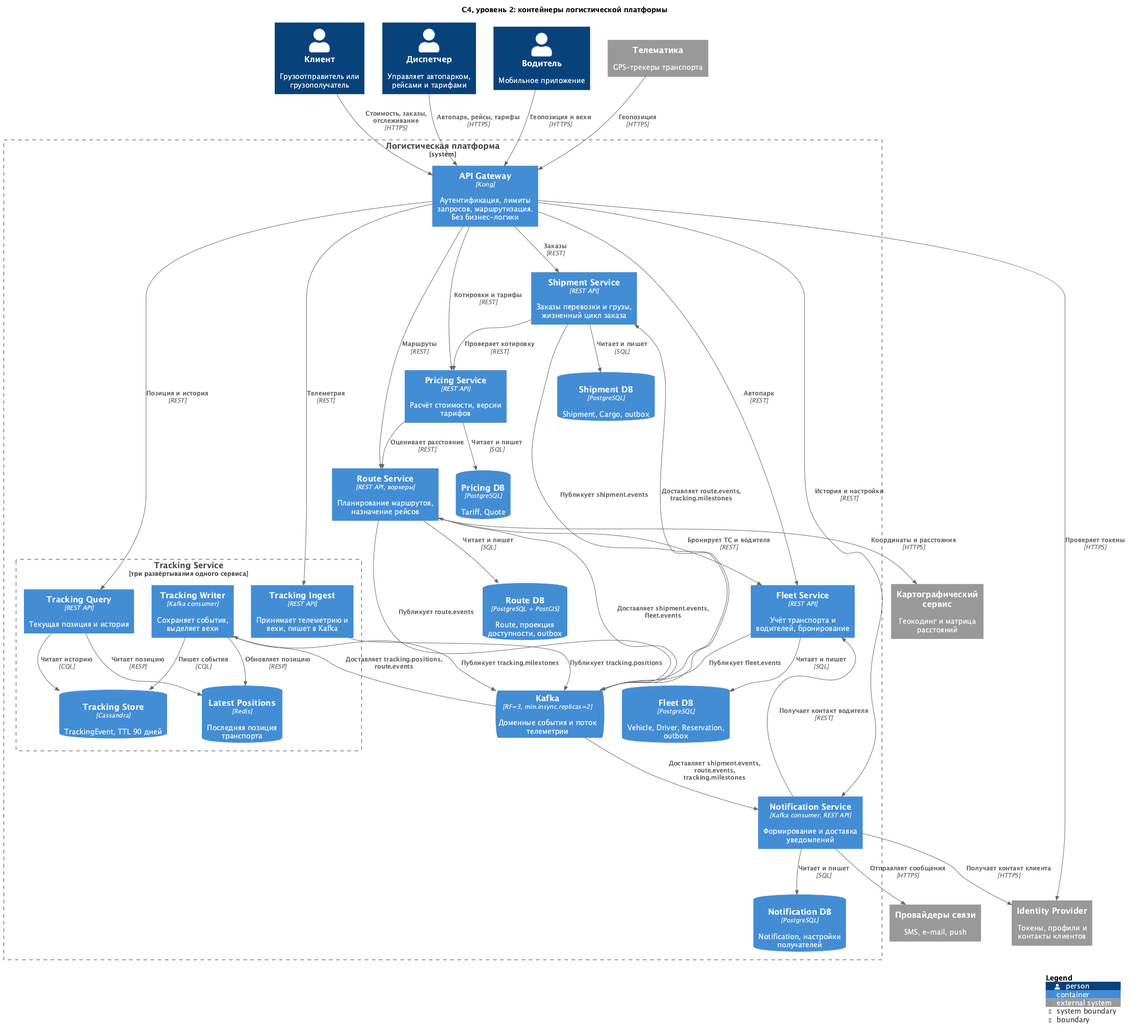
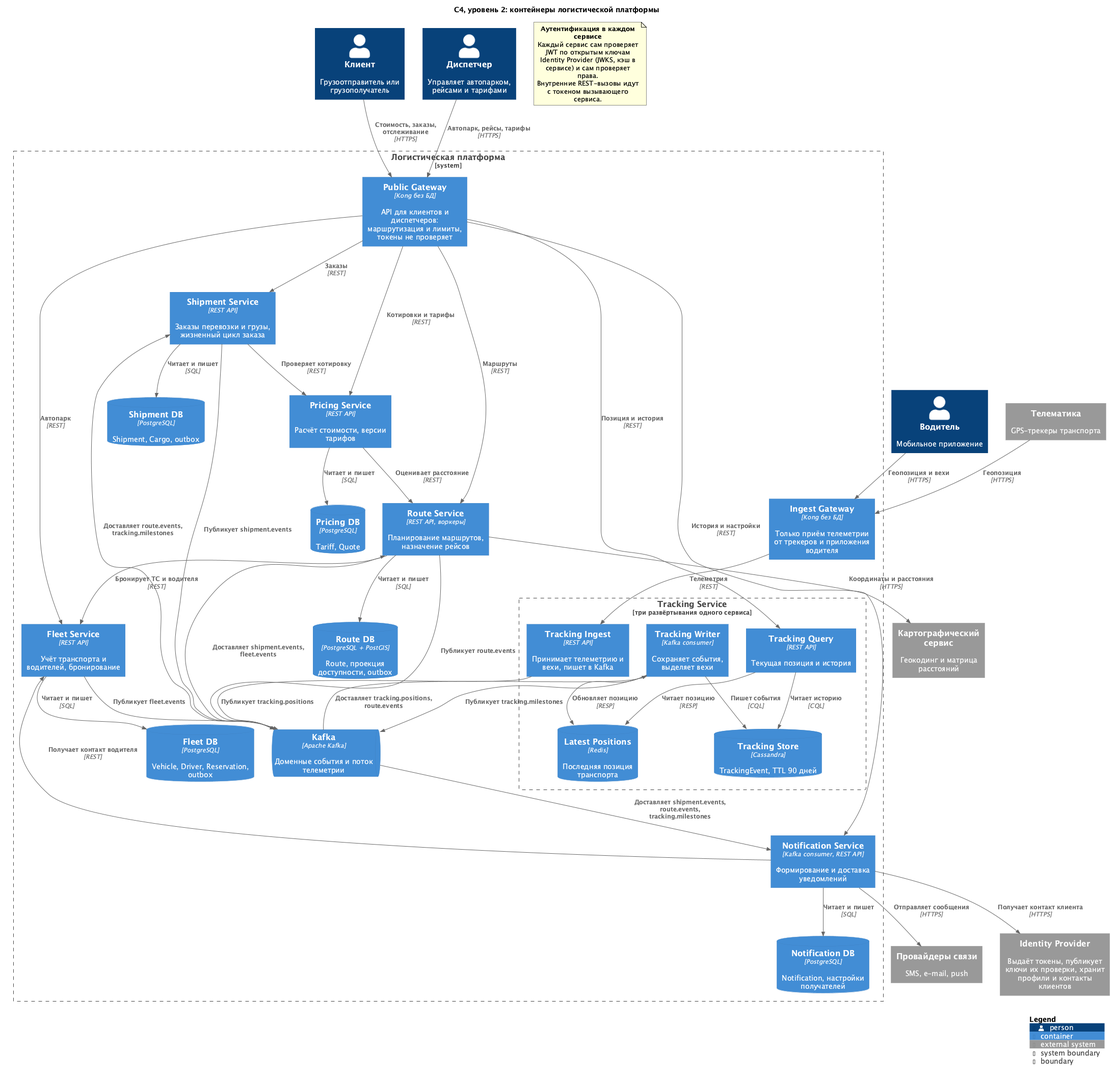
docs: доработка лабы №1 по замечаниям ревью
- Надёжность: три независимых ЦОДа, PostgreSQL на Patroni с синхронной
  репликой, Cassandra и Kafka с RF=3, Redis Sentinel, бэкапы в другом
  регионе (раздел 9, новая схема c4-deployment)
- Точки входа: отдельные Ingest и Public Gateway без состояния,
  Ingest Gateway вынесен из границы Tracking
- Аутентификация: каждый сервис сам проверяет JWT и права,
  шлюзы токены не проверяют
- Балансировка и автомасштабирование: Kong Ingress Controller,
  HPA по метрикам каждого сервиса (раздел 10)
- Мониторинг: Prometheus, Alertmanager и Grafana в каждом ЦОДе (раздел 11)
- C4 container: убраны детали репликации, они перенесены на уровень развёртывания

diff --git a/1_lab/README.md b/1_lab/README.md
@@ -9,7 +9,7 @@
 | Context Map | [diagrams/context-map.puml](diagrams/context-map.puml) |
 | Каталог микросервисов | [services.md](services.md) |
 | ADR-001 | [ADR-001-decomposition.md](ADR-001-decomposition.md) |
-| Схема C4 | [diagrams/c4-context.puml](diagrams/c4-context.puml), [diagrams/c4-container.puml](diagrams/c4-container.puml) |
+| Схема C4 | [diagrams/c4-context.puml](diagrams/c4-context.puml), [diagrams/c4-container.puml](diagrams/c4-container.puml), [diagrams/c4-deployment.puml](diagrams/c4-deployment.puml) |
 
 Сборка картинок: `plantuml -charset UTF-8 -tpng diagrams/*.puml`
 
@@ -93,7 +93,25 @@
 
 Правило владения: данные меняет только сервис-владелец, общих БД и чтения чужих таблиц нет. Копии чужих данных (проекция доступности в Route, привязка «заказ — транспорт» в Tracking) строятся из событий и не считаются источником истины.
 
-Шесть сервисов распределены на пять команд. Pricing и Notification ведёт одна команда, потому что это самые простые сервисы и они не связаны между собой напрямую. API Gateway и Kafka обслуживает команда Tracking как основной потребитель Kafka: отдельной платформенной команды в варианте нет.
+Шесть сервисов распределены на пять команд. Pricing и Notification ведёт одна команда, потому что это самые простые сервисы и они не связаны между собой напрямую. Шлюзы и Kafka обслуживает команда Tracking как основной потребитель Kafka: отдельной платформенной команды в варианте нет.
+
+**Точки входа.** Внешний трафик разделён по профилю нагрузки на два шлюза, у каждого свой адрес и свои экземпляры. Оба шлюза работают на Kong Ingress Controller без БД: маршруты описаны ресурсами Kubernetes, которые хранятся в git. Поэтому экземпляры не хранят состояния, и HPA добавляет их без какой-либо синхронизации (раздел 10).
+
+| Шлюз | Клиенты | Маршруты | Пик | Масштабирование |
+|---|---|---|---:|---|
+| Ingest Gateway | GPS-трекеры, приложение водителя | только `POST /tracking/events` в Tracking Ingest | 2 000 RPS | по RPS телеметрии |
+| Public Gateway | клиенты, диспетчеры | остальной API шести сервисов | 3 000 RPS | по RPS и CPU |
+
+Так всплеск телеметрии не отнимает ресурсы у приёма заказов, а сбой или неудачное обновление одного шлюза не затрагивает другой. Лимиты запросов каждый экземпляр считает локально, без общего хранилища счётчиков. При изменении числа экземпляров лимит соблюдается приблизительно, но для защиты от перегрузки этого достаточно.
+
+**Аутентификация.** Каждый сервис проверяет токен сам, шлюзы только маршрутизируют запросы и ограничивают их частоту.
+
+- Identity Provider выдаёт JWT: клиентам и диспетчерам при входе, водителям в приложении, а трекерам, телематике и самим сервисам — по OAuth 2.0 client credentials.
+- Сервис проверяет подпись токена по открытым ключам IdP (JWKS), которые кэширует у себя. К IdP на каждый запрос он не обращается, поэтому кратковременный сбой IdP не останавливает работу.
+- Права тоже проверяет сам сервис: клиент видит только свои заказы, тарифы меняет только диспетчер, отправлять телеметрию может только трекер или водитель.
+- Внутренние REST-вызовы (Shipment → Pricing, Route → Fleet и другие) идут с токеном вызывающего сервиса. Запрос не считается доверенным только потому, что пришёл из внутренней сети.
+
+Так ошибка в конфигурации шлюза или запрос в обход шлюза не открывают доступ к данным, а правила доступа к данным задаёт команда-владелец этих данных.
 
 ## 5. Основные взаимодействия
 
@@ -105,7 +123,7 @@
 2. Клиент создаёт заказ: `POST /shipments` с `quoteId`. Shipment проверяет котировку в Pricing, копирует цену в заказ и публикует `ShipmentConfirmed`. Статус заказа: `CONFIRMED`.
 3. Route получает событие и строит маршрут. Кандидатов он выбирает по своей проекции доступности, а затем бронирует пару в Fleet (`POST /reservations`). При ответе 409 берётся следующий кандидат.
 4. Route публикует `RouteAssigned`. Shipment переводит заказ в `ASSIGNED`, Tracking запоминает привязку транспорта к заказу, Notification сообщает водителю и клиенту. Если подобрать ресурс не удалось, публикуется `RouteAssignmentFailed` и заказ переходит в `ASSIGNMENT_FAILED`.
-5. Телематика и приложение водителя отправляют события в `POST /tracking/events`. Ingest пишет их в Kafka, Writer сохраняет в Cassandra и Redis, а вехи (груз забран, груз доставлен) публикует в `tracking.milestones`.
+5. Телематика и приложение водителя отправляют события через Ingest Gateway в `POST /tracking/events`. Ingest пишет их в Kafka, Writer сохраняет в Cassandra и Redis, а вехи (груз забран, груз доставлен) публикует в `tracking.milestones`.
 6. Shipment получает вехи и переводит заказ в `IN_TRANSIT`, затем в `DELIVERED`. По событию `ShipmentStatusChanged` со статусом `DELIVERED` Route завершает рейс и освобождает бронь в Fleet.
 
 **Отмена:** `POST /shipments/{id}/cancel` публикует `ShipmentCancelled`, после чего Route отменяет рейс и снимает бронь (компенсация).
@@ -129,7 +147,11 @@
 | Fleet | приём заказов, отслеживание | назначение откладывается, Route повторяет попытку |
 | Tracking | приём заказов и назначение рейсов | позиции устаревают; при отказе Ingest клиенты повторяют отправку из своего буфера |
 | Notification | всё остальное | уведомления приходят с задержкой, но не теряются |
-| Shipment | отслеживание, учёт автопарка | новые заказы не принимаются, поэтому минимум 3 экземпляра в разных зонах доступности |
+| Shipment | отслеживание, учёт автопарка | новые заказы не принимаются, поэтому экземпляры работают во всех трёх ЦОДах |
+| Ingest Gateway | весь API для клиентов и диспетчеров | позиции устаревают, трекеры копят отметки в своём буфере и отправляют повторно |
+| Public Gateway | приём телеметрии | клиенты и диспетчеры не могут работать с API, поэтому экземпляры работают во всех трёх ЦОДах |
+| Лидер PostgreSQL одного сервиса | все остальные сервисы | Patroni переключается на синхронную реплику, запись в этот сервис недоступна до 1 мин, данные не теряются |
+| Целый ЦОД | вся система, трафик принимают два оставшихся ЦОДа | запись в БД, чей лидер был в этом ЦОДе, недоступна до 1 мин, данные не теряются |
 | Kafka | чтение, приём заказов (события копятся в outbox) | назначение и уведомления останавливаются, Ingest отвечает 503 и клиенты повторяют отправку |
 
 ## 6. Обоснование декомпозиции
@@ -149,9 +171,9 @@
 
 | Ограничение | Как выполнено |
 |---|---|
-| Независимое масштабирование | у каждого сервиса своя метрика, а Ingest, Writer и Query в Tracking масштабируются отдельно |
-| Высокая доступность | приём заказа и телеметрии не зависит синхронно от Route, Fleet и Notification; см. таблицу отказов |
-| Владение данными | своя БД и одна команда-владелец у каждого сервиса |
+| Независимое масштабирование | у каждого развёртывания свой HPA и своя метрика, Ingest, Writer и Query в Tracking масштабируются отдельно, балансировщик сам находит новые поды, внешний трафик разделён на два шлюза без состояния (разделы 4 и 10) |
+| Высокая доступность | три независимых ЦОДа, у каждого хранилища копия в каждом из них (раздел 9); приём заказа и телеметрии не зависит синхронно от Route, Fleet и Notification; см. таблицу отказов; сбои видны в Grafana и приходят алертами (раздел 11) |
+| Владение данными | своя БД, одна команда-владелец и своя проверка прав доступа у каждого сервиса |
 | Выделение нового сервиса | см. раздел 8 |
 | 5 команд | один сервис на команду, одна команда ведёт два простых сервиса |
 | 5 000 RPS | чтение позиции идёт из Redis, запись буферизуется Kafka, история хранится в Cassandra с TTL |
@@ -165,7 +187,7 @@
 
 ## 8. Выделение нового сервиса
 
-Возможность выделения обеспечивают три решения: каждое изменение состояния публикуется событием, API Gateway маршрутизирует по пути, а модули внутри сервиса не используют чужие схемы БД.
+Возможность выделения обеспечивают три решения: каждое изменение состояния публикуется событием, Public Gateway маршрутизирует по пути, а модули внутри сервиса не используют чужие схемы БД.
 
 **Новая возможность: Billing.** Сервис подписывается на `shipment.events`, а цена уже есть в `ShipmentConfirmed`. Существующие сервисы менять не нужно.
 
@@ -173,12 +195,71 @@
 
 1. Поднять новый сервис и перенести в его БД схему `driver`, которая уже изолирована.
 2. Перенести публикацию `DriverStatusChanged`, формат события оставить прежним.
-3. Переключить `/drivers` в API Gateway на новый сервис.
+3. Переключить `/drivers` в Public Gateway на новый сервис.
 4. Заменить общую бронь на сагу: бронь транспорта и бронь водителя становятся двумя шагами с компенсацией.
 
 Шаг 4 и есть цена выделения, поэтому сейчас Vehicle и Driver находятся в одном сервисе.
 
-## 9. Потенциальные проблемы
+## 9. Размещение и репликация
+
+Чтобы критичные операции работали 24/7, система должна пережить отказ узла, стойки и целого ЦОДа. Поэтому она развёрнута в трёх независимых ЦОДах, и у каждого хранилища есть копия в каждом из них.
+
+- **Площадки.** Три ЦОДа в одном регионе, разнесённые на десятки километров, с независимым питанием и каналами связи. Задержка между ними 1–3 мс (допущение), этого достаточно для синхронной репликации.
+- **Почему три, а не два.** Автоматическое переключение требует кворума. Если две площадки теряют связь друг с другом, ни одна не может решить, что главная именно она, и возникает риск split-brain. Третий ЦОД даёт большинство 2 из 3.
+- **Независимые контуры.** В каждом ЦОДе свой кластер Kubernetes, поэтому авария или неудачное обновление одного кластера не затрагивает остальные. GSLB направляет трафик только в ЦОДы, которые проходят проверку доступности.
+- **Запас мощности.** Каждый ЦОД рассчитан на 50 % пиковой нагрузки, чтобы после отказа одного из них два оставшихся выдержали 5 000 RPS.
+
+![C4, развёртывание](diagrams/c4-deployment.png)
+
+Исходник: [diagrams/c4-deployment.puml](diagrams/c4-deployment.puml).
+
+| Компонент | Копии | Репликация | Отказ одного ЦОДа | RPO | RTO |
+|---|---|---|---|---|---|
+| PostgreSQL, 5 кластеров (по одному на сервис) | лидер и 2 реплики, по одной в каждом ЦОДе | синхронная: коммит подтверждается после записи хотя бы в одну реплику в другом ЦОДе (`ANY 1`) | Patroni по кворуму etcd повышает синхронную реплику | 0 | до 1 мин |
+| Cassandra (Tracking) | RF=3, по реплике в каждом ЦОДе (ЦОД = rack) | без лидера, запись и чтение с `QUORUM` | хватает 2 реплик из 3, переключение не нужно | 0 | 0 |
+| Kafka | RF=3, `broker.rack` = ЦОД, контроллеры KRaft в трёх ЦОДах | `acks=all`, `min.insync.replicas=2` | лидеры партиций переизбираются автоматически | 0 | секунды |
+| Redis (последние позиции) | master и 2 реплики, Sentinel в трёх ЦОДах | асинхронная | Sentinel повышает реплику | несколько секунд, позиции восстанавливаются следующими отметками за 10 с | до 30 с |
+| etcd (кворум для Patroni) | 3 узла, по одному в каждом ЦОДе | Raft | кворум 2 из 3 сохраняется | — | — |
+| Шлюзы и сервисы | экземпляры в каждом ЦОДе | состояния нет | GSLB исключает ЦОД из ответов DNS | — | до 1 мин (TTL DNS) |
+
+Запись из ЦОДов B и C идёт в лидер PostgreSQL и занимает на 1–3 мс больше, чтение идёт из локальной реплики. Лидеры пяти кластеров можно разнести по разным ЦОДам, чтобы распределить нагрузку на запись. Если откажут сразу два ЦОДа, запись в PostgreSQL остановится: подтвердить коммит будет некому. Это сделано намеренно, чтобы не терять данные, а переключение в таком случае выполняется вручную.
+
+**Резервные копии.** Репликация не защищает от логических ошибок: ошибочный `DELETE` сразу попадает во все копии. Поэтому PostgreSQL непрерывно архивирует WAL, а Cassandra ежедневно делает снапшоты в объектное хранилище в другом регионе. Это позволяет восстановить данные на любой момент времени и пережить потерю всего региона. В таком случае данные PostgreSQL теряются не больше чем за минуту, история телеметрии — не больше чем за сутки, а восстановление занимает часы. Если этого мало, следующий шаг — асинхронная реплика в другом регионе.
+
+## 10. Балансировка и автомасштабирование
+
+Каждый ЦОД обслуживает свою долю трафика самостоятельно: свой кластер Kubernetes масштабирует поды и распределяет между ними запросы. Балансировка динамическая на всех уровнях: новые поды начинают получать запросы, а удалённые и неисправные перестают, без ручной настройки.
+
+| Уровень | Чем балансируется | Как узнаёт о подах |
+|---|---|---|
+| Между ЦОДами | GSLB (DNS) | проверяет доступность каждого ЦОДа и исключает недоступный |
+| Вход в ЦОД | L4-балансировщик с виртуальным IP (Service типа LoadBalancer) | Kubernetes обновляет список подов шлюзов |
+| Шлюз → сервис | Kong Ingress Controller, алгоритм least connections | следит за Endpoints сервиса, под получает запросы после `readinessProbe`, под с ошибками временно исключается |
+| Сервис → сервис (REST) | Kubernetes Service | список подов из Endpoints |
+
+**Автомасштабирование.** Каждое развёртывание (шесть сервисов, их части и оба шлюза) масштабирует свой HorizontalPodAutoscaler по метрике из [каталога сервисов](services.md): CPU, RPS или отставание consumer group в Kafka. Метрики RPS и отставания HPA получает из Prometheus через Prometheus Adapter.
+
+- **Минимум** — 2 пода каждого развёртывания в каждом ЦОДе, чтобы перезапуск одного пода не прерывал работу.
+- **Максимум** ограничен запасом мощности ЦОДа (раздел 9). Для потребителей Kafka он не больше числа партиций топика, потому что лишний потребитель простаивает.
+- **ЦОДы масштабируются независимо.** При отказе одного ЦОДа его трафик уходит в два оставшихся, и их HPA добавляет поды в пределах запаса в 50 %.
+
+## 11. Мониторинг
+
+В каждом ЦОДе работает свой Prometheus (два экземпляра), который собирает метрики своего кластера. Сервисы и шлюзы отдают `/metrics`, для PostgreSQL, Cassandra, Redis и Kafka работают экспортеры. Так отказ одного ЦОДа не лишает мониторинга остальные, а сбор метрик не зависит от каналов между ЦОДами.
+
+Grafana работает в каждом ЦОДе, дашборды хранятся в git, источниками данных служат все три Prometheus, поэтому из любого ЦОДа видна вся система. Alertmanager работает кластером из трёх узлов в разных ЦОДах и сам убирает дубли алертов.
+
+| Что | Основные метрики | Пример алерта |
+|---|---|---|
+| Сервисы и шлюзы | RPS, доля ошибок, задержка p99 | доля ответов 5xx больше 1 % в течение 5 минут |
+| Kafka | отставание consumer group, партиции без полного набора реплик | отставание Tracking Writer больше минуты |
+| PostgreSQL | отставание реплик, состояние Patroni | нет синхронной реплики |
+| Cassandra, Redis | задержки, доступность узлов | узел недоступен |
+| Kubernetes | число подов относительно максимума HPA, CPU и память узлов | HPA упёрся в максимум |
+
+Стек мониторинга обслуживает команда Tracking вместе со шлюзами и Kafka, а дашборды и алерты своего сервиса ведёт каждая команда.
+
+## 12. Потенциальные проблемы
 
 | Проблема | Последствие | Что с этим делать |
 |---|---|---|
@@ -186,10 +267,18 @@
 | Логический цикл событий Shipment и Route | сага может зависнуть, логику трудно отследить | таймауты, статус `ASSIGNMENT_FAILED`, сквозной `correlationId`, при усложнении перейти на оркестратор |
 | Изменение контрактов событий | ломаются сразу несколько потребителей | Schema Registry и проверка обратной совместимости в CI |
 | Дубли и нарушение порядка событий | неверный статус заказа | идемпотентные потребители, ключ партиции, версия агрегата в событии |
-| Kafka как общая зависимость | остановка всех асинхронных процессов | RF=3, `min.insync.replicas=2`, размещение в нескольких зонах, Outbox |
+| Kafka как общая зависимость | остановка всех асинхронных процессов | RF=3, `min.insync.replicas=2`, брокеры в трёх ЦОДах, Outbox |
+| Split-brain между ЦОДами | две «главные» копии БД и расхождение данных | нечётное число площадок, решения по кворуму (etcd, KRaft, Cassandra); лидер PostgreSQL без кворума etcd сам перестаёт принимать запись |
+| Межцодовые задержки | запись в PostgreSQL дольше на 1–3 мс | ЦОДы в одном регионе, лидеры кластеров распределены по ЦОДам |
+| Репликация копирует ошибки | ошибочное удаление попадает во все копии | WAL-архив и снапшоты в другом регионе, восстановление на момент времени |
+| Стоимость трёх ЦОДов | тройной объём хранения, запас мощности 50 % в каждом ЦОДе | это цена требования 24/7; объём телеметрии ограничен TTL 90 дней |
 | Синхронная цепочка Pricing → Route | каскадные задержки | таймауты, circuit breaker, приближённая оценка расстояния |
 | Устаревшая проекция доступности в Route | выбор уже занятого ресурса | окончательную проверку выполняет Fleet при бронировании, ответ 409 |
 | Рост хранилища телеметрии | около 7 ТБ с репликацией, горячие партиции | TTL 90 дней, архив в объектное хранилище, партиция по `vehicleId` и дню |
 | Нет JOIN между контекстами | сложные сквозные отчёты | отдельная витрина, наполняемая из Kafka |
-| Нет платформенной команды | перегрузка команды Tracking | управляемые Kafka и Gateway, общие шаблоны развёртывания |
+| Нет платформенной команды | перегрузка команды Tracking | управляемые Kafka и шлюзы, общие шаблоны развёртывания |
+| Ошибка в конфигурации шлюза | недоступен весь API этого шлюза | декларативная конфигурация в git с проверкой в CI, выкладка по одному ЦОДу |
+| HPA не успевает за резким всплеском | рост задержек, пока поднимаются новые поды | минимум подов с запасом, алерт на максимум HPA, лимиты запросов на шлюзах |
+| Отказ Prometheus в ЦОДе | HPA перестаёт менять число подов по RPS и отставанию, в Grafana нет данных этого ЦОДа | два экземпляра Prometheus в ЦОДе; без метрик HPA сохраняет текущее число подов |
+| Ошибка в проверке прав в одном из сервисов | доступ к чужим данным | общая библиотека проверки JWT, тесты прав доступа в CI каждого сервиса |
 | Персональные данные и геопозиция водителей | риск утечки, требования 152-ФЗ | в событиях только идентификаторы, контакты запрашиваются у владельца |

diff --git a/1_lab/services.md b/1_lab/services.md
@@ -6,7 +6,10 @@
 
 - Данные сервиса меняет только он сам. Другие сервисы получают их через API или события, общих БД нет.
 - События публикуются через Transactional Outbox, потребители идемпотентны.
-- Внешний трафик проходит через API Gateway. Это инфраструктурный компонент без бизнес-логики и своих данных, поэтому в каталог он не входит.
+- Каждый сервис сам проверяет JWT и права доступа к своим данным, внутренние вызовы идут с токеном вызывающего сервиса ([README, раздел 4](README.md#4-границы-сервисов-ответственность-и-владение-данными)).
+- Каждый сервис и каждое хранилище развёрнуты в трёх независимых ЦОДах, схема репликации описана в [разделе 9 отчёта](README.md#9-размещение-и-репликация).
+- Число подов каждого развёртывания меняет HPA по метрике из поля `Scalability`, минимум 2 пода в каждом ЦОДе ([раздел 10 отчёта](README.md#10-балансировка-и-автомасштабирование)).
+- Внешний трафик проходит через два шлюза: Ingest Gateway принимает телеметрию, Public Gateway обслуживает остальной API (README, раздел 4). Это инфраструктурные компоненты без бизнес-логики и своих данных, поэтому в каталог они не входят.
 
 ## Shipment Service
 
@@ -41,7 +44,7 @@ REST + Kafka
 Потребляет: route.events, tracking.milestones
 
 Scalability:
-Горизонтальное масштабирование, минимум 3 экземпляра в разных зонах доступности.
+Горизонтальное масштабирование, экземпляры в каждом из трёх ЦОДов.
 Чтение идёт в реплики, при росте возможно шардирование по shipmentId.
 ```
 
@@ -148,7 +151,7 @@ REST + Kafka
 Публикует: fleet.events
 
 Scalability:
-Горизонтальное масштабирование, нагрузка низкая, достаточно 2–3 экземпляров.
+Горизонтальное масштабирование по CPU, нагрузка низкая, обычно хватает минимума HPA: 2 пода в каждом ЦОДе.
 Write-операции бронирования упираются в primary PostgreSQL, чтение можно вынести в реплики.
 ```
 
@@ -185,7 +188,7 @@ REST + Kafka
 Scalability:
 Три независимо масштабируемых развёртывания одного сервиса:
 Ingest масштабируется по RPS, Writer по отставанию consumer group, Query по RPS.
-Минимум 3 экземпляра Ingest в разных зонах доступности.
+Экземпляры Ingest работают в каждом из трёх ЦОДов.
 ```
 
 ## Notification Service

diff --git a/1_lab/ADR-001-decomposition.md b/1_lab/ADR-001-decomposition.md
@@ -89,7 +89,7 @@ Shipment (с Cargo), Pricing, Route, Fleet (Vehicle и Driver), Tracking, Notifi
 - JOIN между контекстами невозможен, для сквозных отчётов нужна отдельная витрина.
 - Растут затраты на инфраструктуру и наблюдаемость.
 
-Меры по снижению этих рисков перечислены в [разделе 9 отчёта](README.md#9-потенциальные-проблемы).
+Меры по снижению этих рисков перечислены в [разделе 12 отчёта](README.md#12-потенциальные-проблемы).
 
 ## Итоговая архитектурная схема (C4)
 
@@ -104,3 +104,11 @@ Shipment (с Cargo), Pricing, Route, Fleet (Vehicle и Driver), Tracking, Notifi
 ![C4, контейнеры](diagrams/c4-container.png)
 
 Исходник: [diagrams/c4-container.puml](diagrams/c4-container.puml).
+
+### Развёртывание
+
+Каждый контейнер работает в трёх независимых ЦОДах, у каждого хранилища есть реплика в каждом из них. Число подов в каждом ЦОДе меняет HPA, балансировщик сам находит новые поды, метрики собирает Prometheus. Подробности в [разделах 9–11 отчёта](README.md#9-размещение-и-репликация).
+
+![C4, развёртывание](diagrams/c4-deployment.png)
+
+Исходник: [diagrams/c4-deployment.puml](diagrams/c4-deployment.puml).
